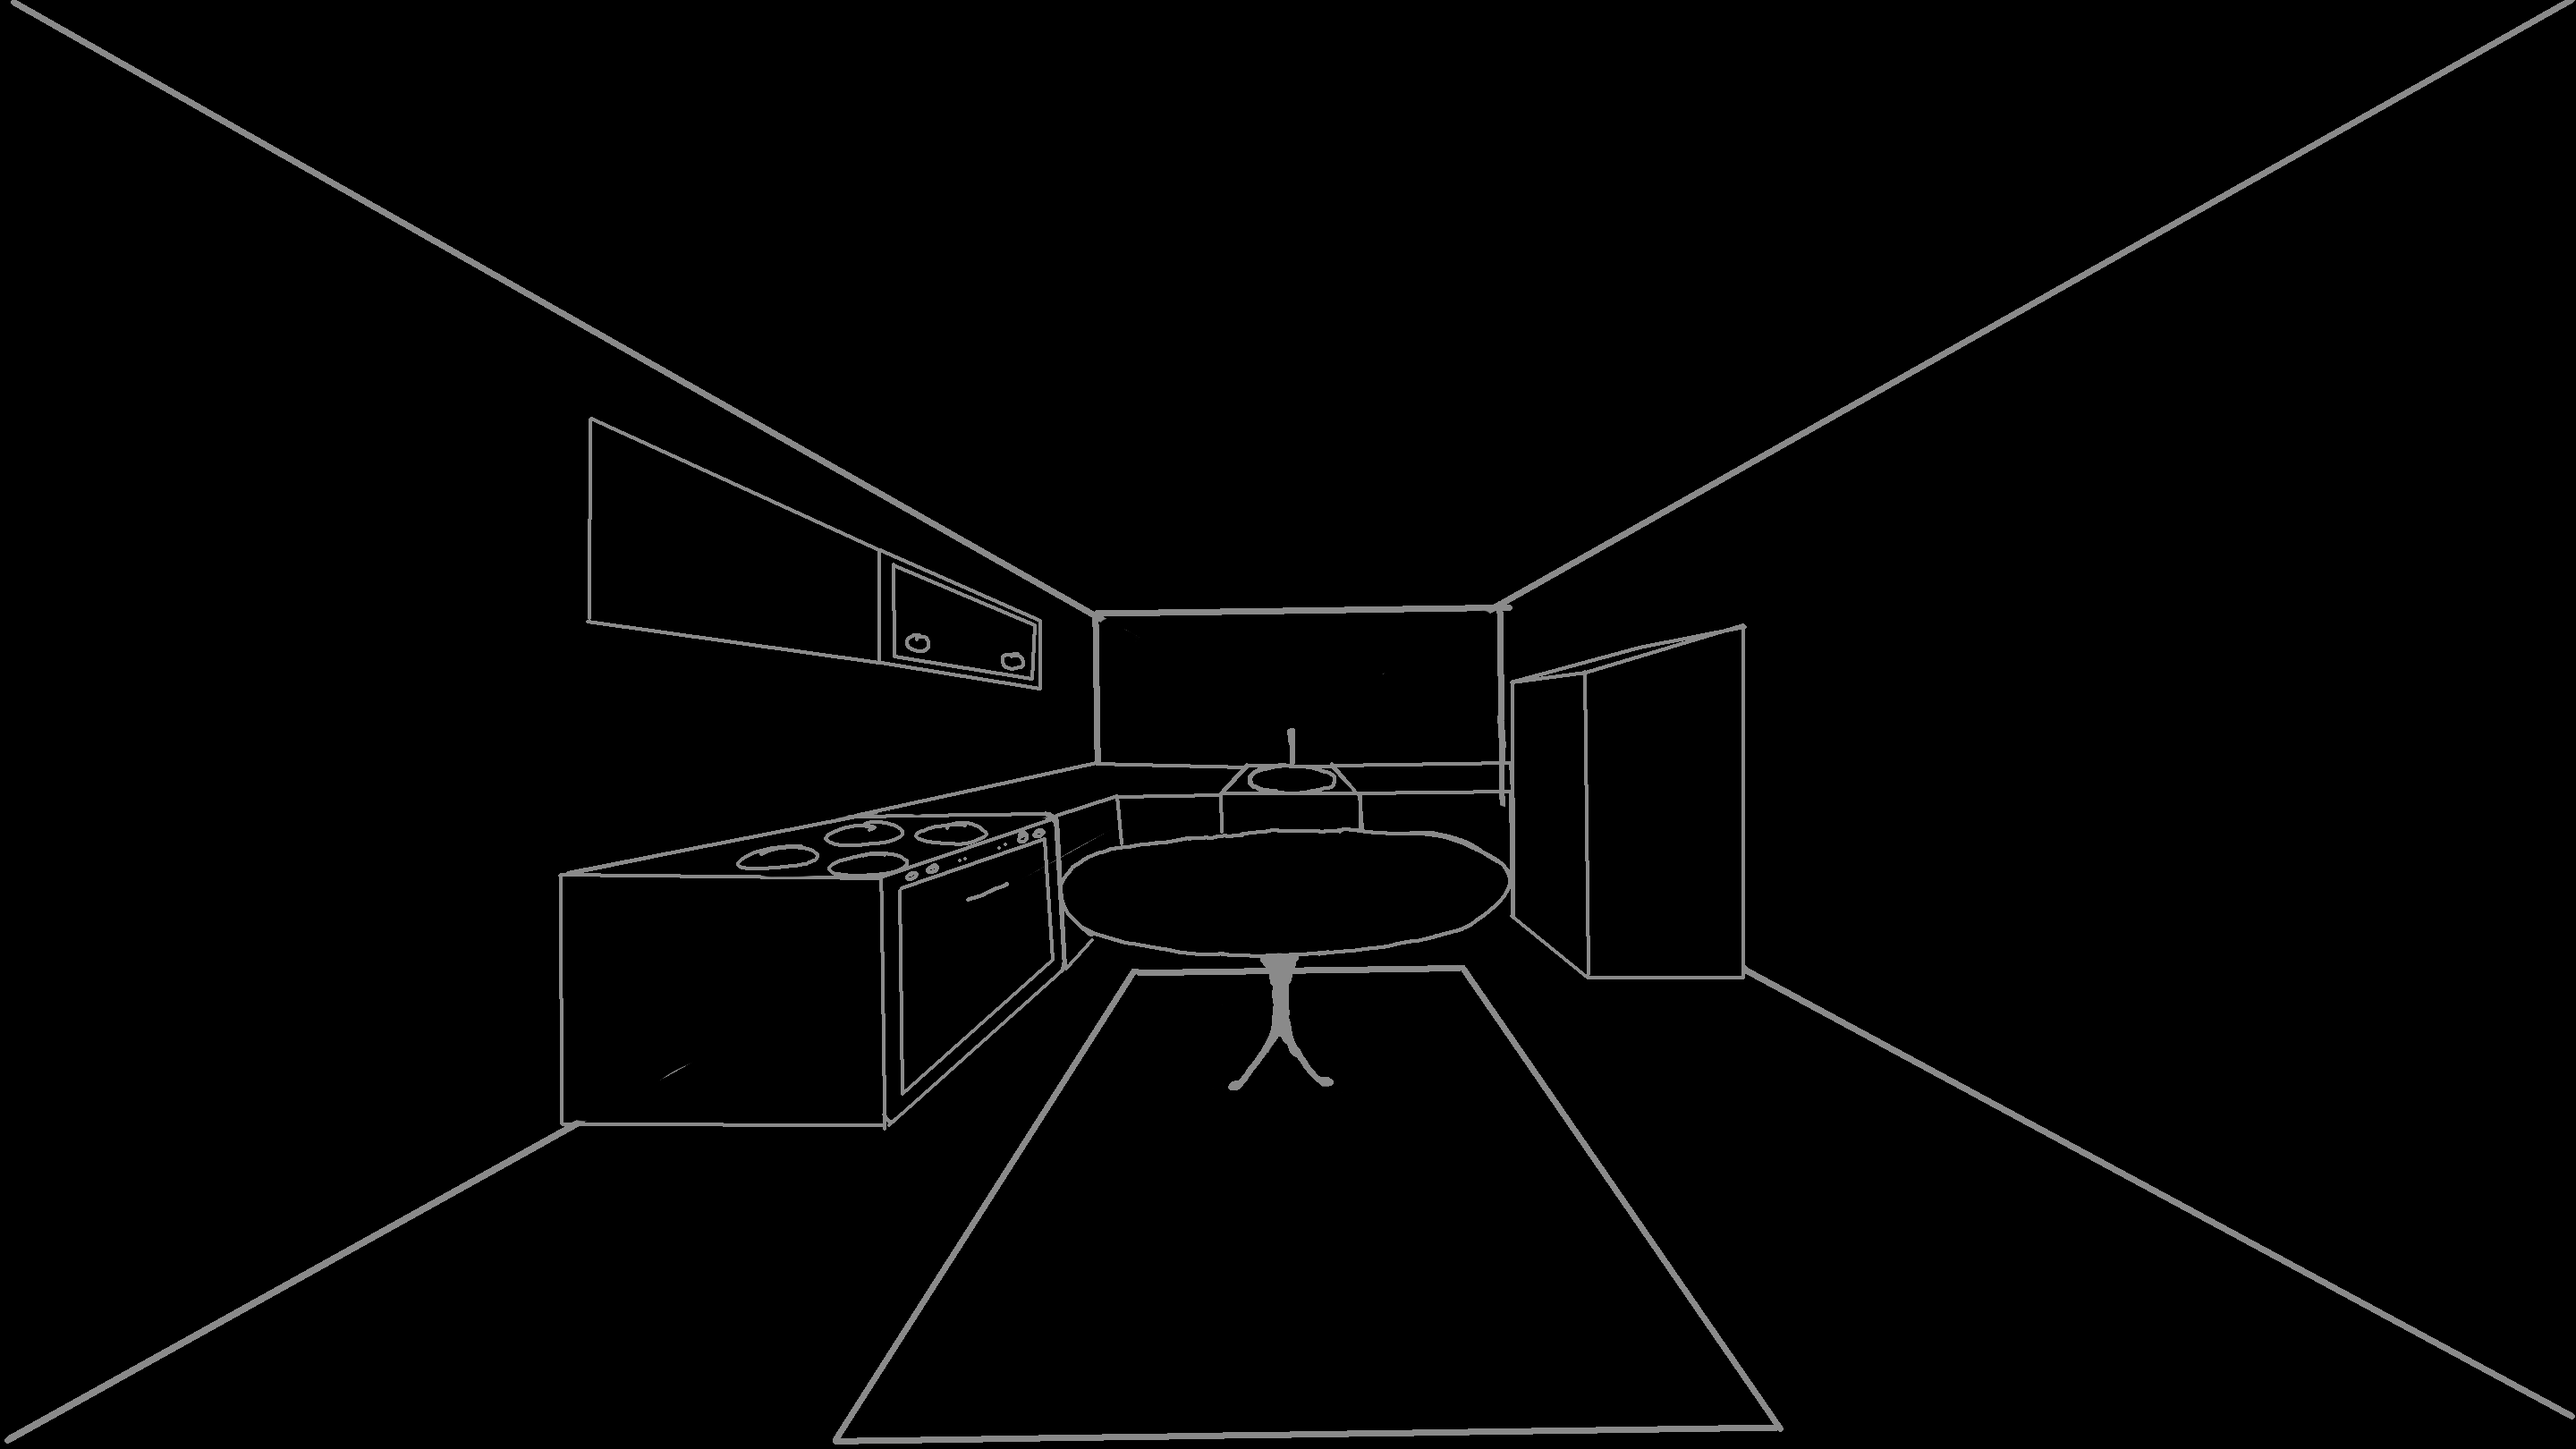
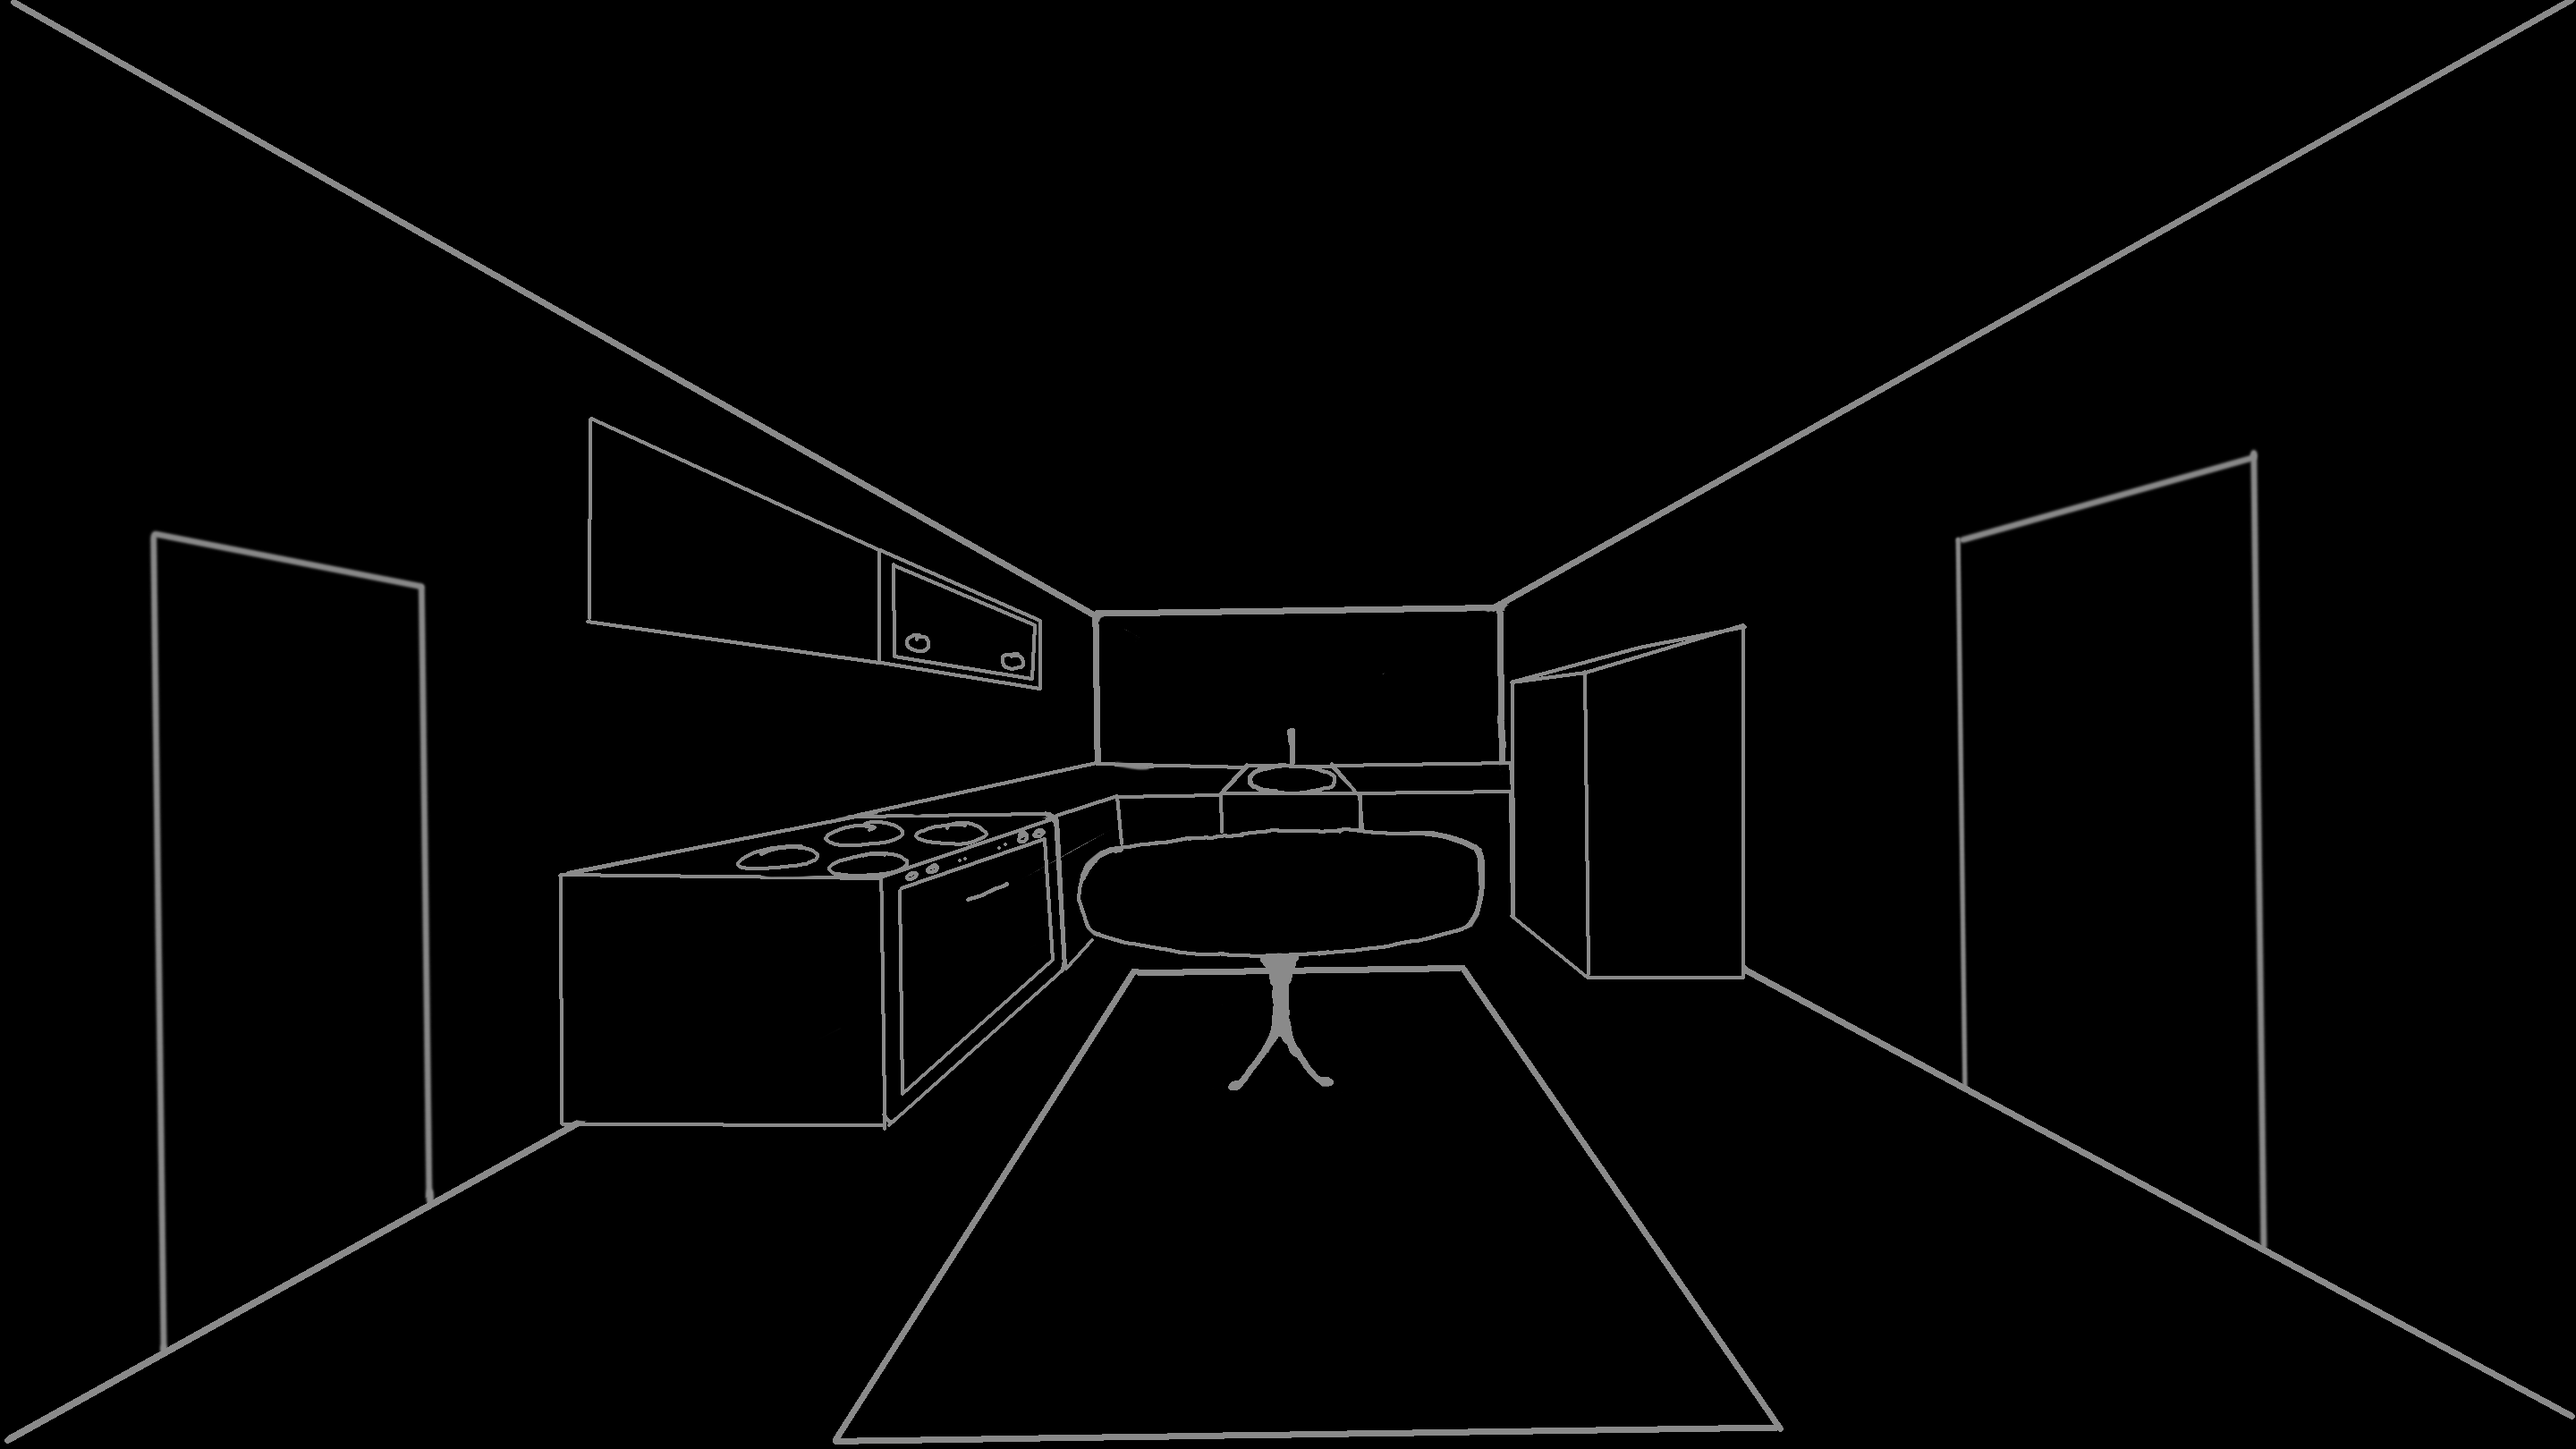
new images and rework stuff

diff --git a/Scripts/canvas.js b/Scripts/canvas.js
@@ -5,7 +5,13 @@ canvas.width = window.innerWidth;
 canvas.height = window.innerHeight;
 
 const img = new Image();
-img.src = 'Images/GameOnKitchen.png'; // backround ima ge
+let room = "Kitchen"
+img.src = 'Images/GameOn' + room + '.png'; // backround ima ge
+
+const door1 = new Image();
+door1.src = 'Images/Door1.png'; // door image
+const door2 = new Image();
+door2.src = 'Images/Door1.png'; // door image
 
 let mouseX = canvas.width / 2; // gör så att "ljuset" börjar i mitten av skärmen
 let mouseY = canvas.height / 2;
@@ -16,6 +22,13 @@ const radius = 80;
 const maxShiftX = 200;
 const maxShiftY = 200;
 
+// game variables (set when select difficulty)
+let fever = 0;
+let maxFever = 67;
+let difficulty = "None";
+let objectsFound = 0;
+let colorFreq = 440; // red: 440, green: 565, blue: 645 THz
+
 
 // clamp and lerp functions stolen from samir aswell as some other stuff but what it does is make giveen max and minimum so that the mouse / light dosent go outside the screen)
 function clamp(num, min, max) {
@@ -23,6 +36,11 @@ function clamp(num, min, max) {
 }
 function lerp(x, y, a) {
     return x * (1 - a) + y * a;
+}
+function getImgScaled(x, y) {
+    const scaleX = x * canvas.width / 2880;
+    const scaleY = y * canvas.height / 1620;
+    return {X: scaleX, Y: scaleY};
 }
 
 let currentX = mouseX; //circle at mouse position
@@ -52,7 +70,13 @@ function draw() {
     ctx.beginPath();
     ctx.arc(currentX, currentY, radius, 0, Math.PI * 2); 
     ctx.clip();
+
     ctx.drawImage(img, -backgroundgOffsetX, -backroundgOffsetY, canvas.width, canvas.height);
+
+    let door1Size = getImgScaled(door1.naturalWidth, door1.naturalHeight);
+    ctx.drawImage(door1, -backgroundgOffsetX, -backroundgOffsetY, door1Size.X, door1Size.Y)
+    let door2Size = getImgScaled(door2.naturalWidth, door2.naturalHeight);
+    ctx.drawImage(door2, -backgroundgOffsetX, -backroundgOffsetY, door2Size.X, door2Size.Y)
     
     ctx.fillStyle = 'rgba(0, 0, 255, 0.1)'; //  gives the light a red color light with 10 % oppacity
     ctx.fillRect(0, 0, canvas.width, canvas.height);
@@ -65,6 +89,18 @@ function draw() {
 window.addEventListener('resize', () => {
     canvas.width = window.innerWidth;
     canvas.height = window.innerHeight;
+});
+
+window.addEventListener('click', function(event) {
+    const width = window.innerWidth;
+    const height = window.innerHeight;
+    const x = event.clientX;
+    const y = event.clientY;
+
+    if (room == "Kitchen" && context.isPointInPath(inBath, x, y)) {
+        room = "Bathroom"
+        img.src = 'Images/GameOn' + room + '.png';
+    }
 });
 
 img.onload = draw;

diff --git a/Scripts/playerView.js b/Scripts/playerView.js
@@ -64,5 +64,14 @@ window.addEventListener("DOMContentLoaded", (event) => {
         mouseChanged = true;
     });
 
+    document.addEventListener('click', function(event) {
+        const width = window.innerWidth;
+        const height = window.innerHeight;
+        const x = event.clientX;
+        const y = event.clientY;
+
+        console.log(x, y)
+    });
+
     setInterval(updatePositions, 16);
 });

diff --git a/style.css b/style.css
@@ -52,6 +52,7 @@ body {
   padding: 0;
   margin: 0;
   outline: none;
+  z-index: 1;
 
   cursor:pointer;
 }
@@ -67,5 +68,6 @@ body {
     pointer-events: none;
 }
 
-/*#kitchenCanvas {
-} */
+#kitchenCanvas {
+  z-index: 2;
+} 
